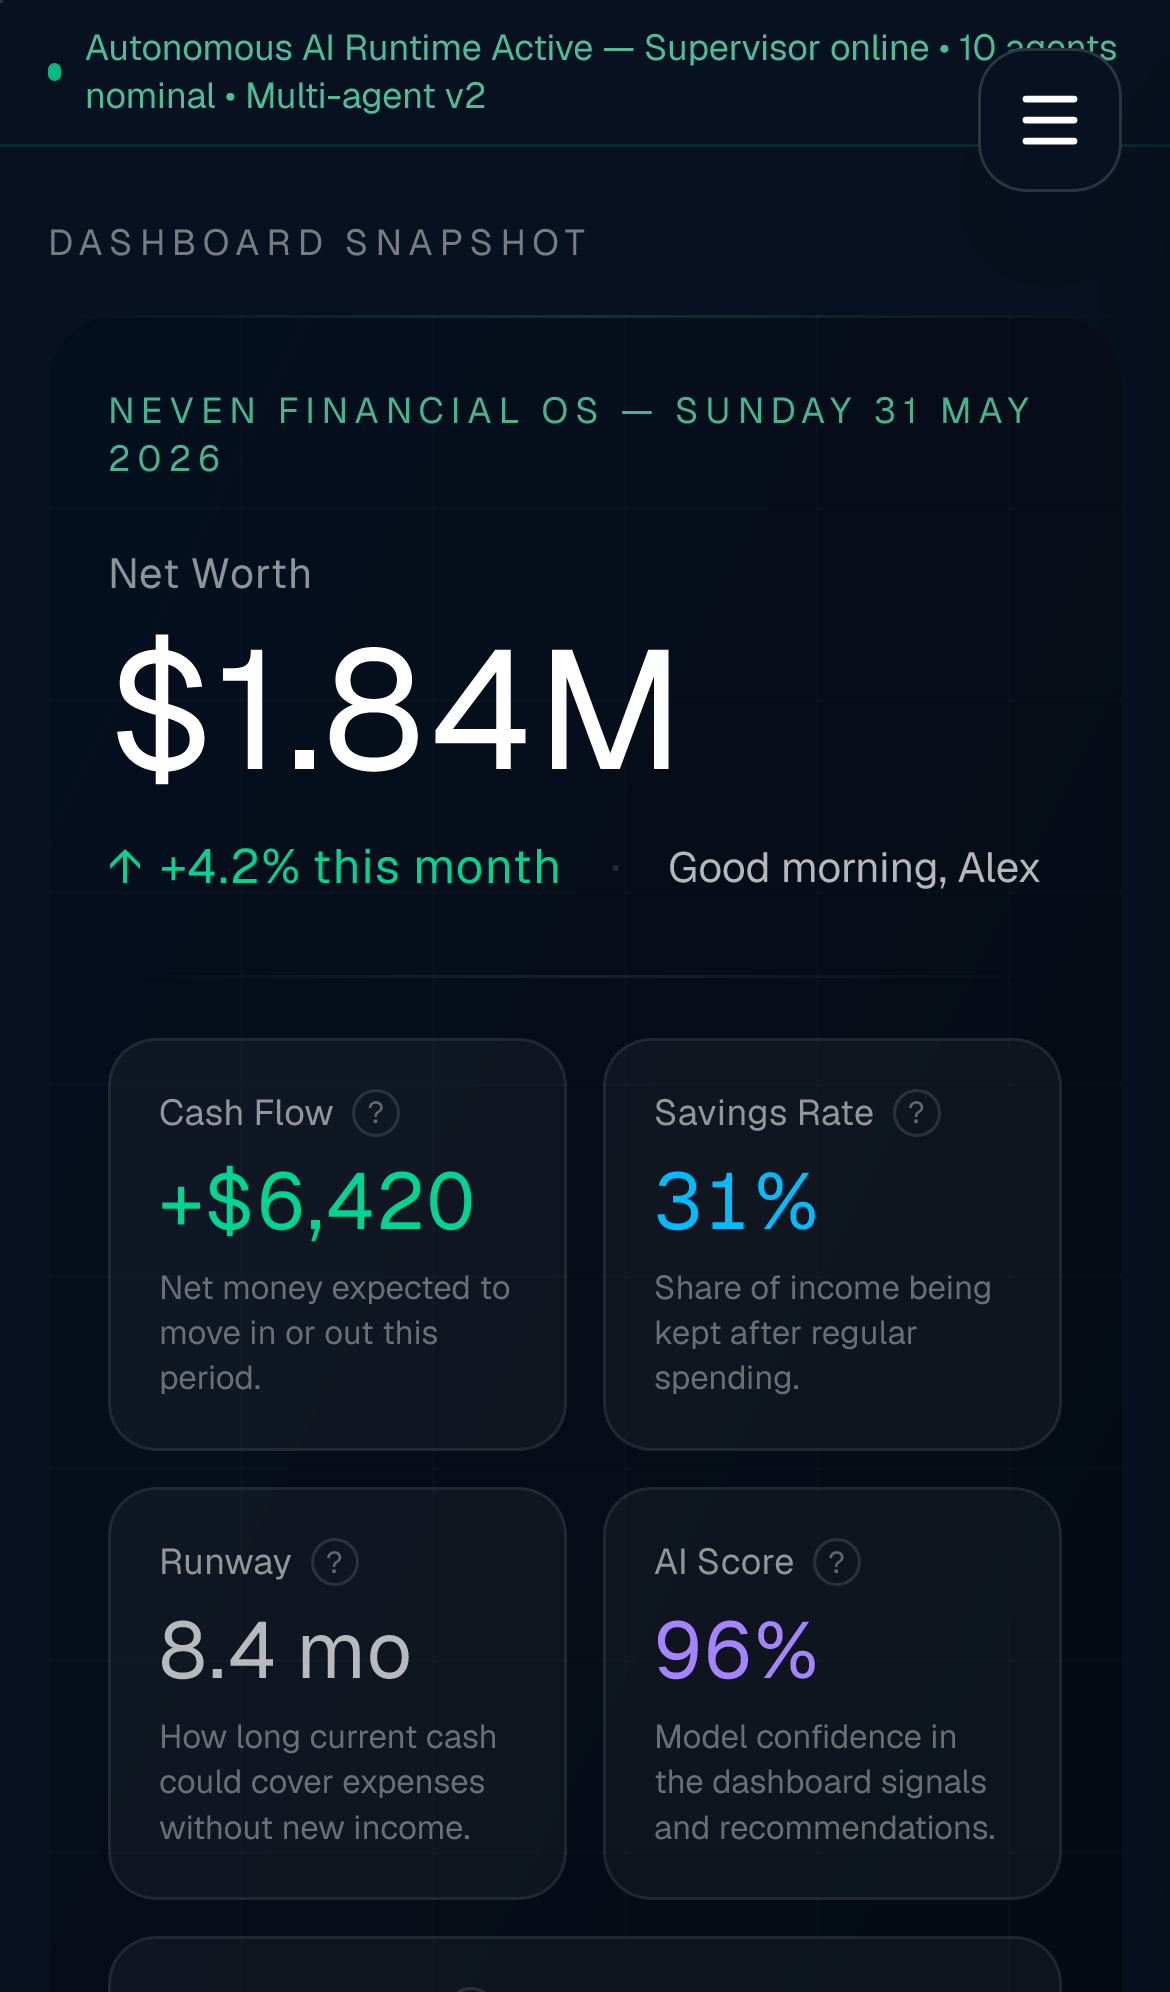
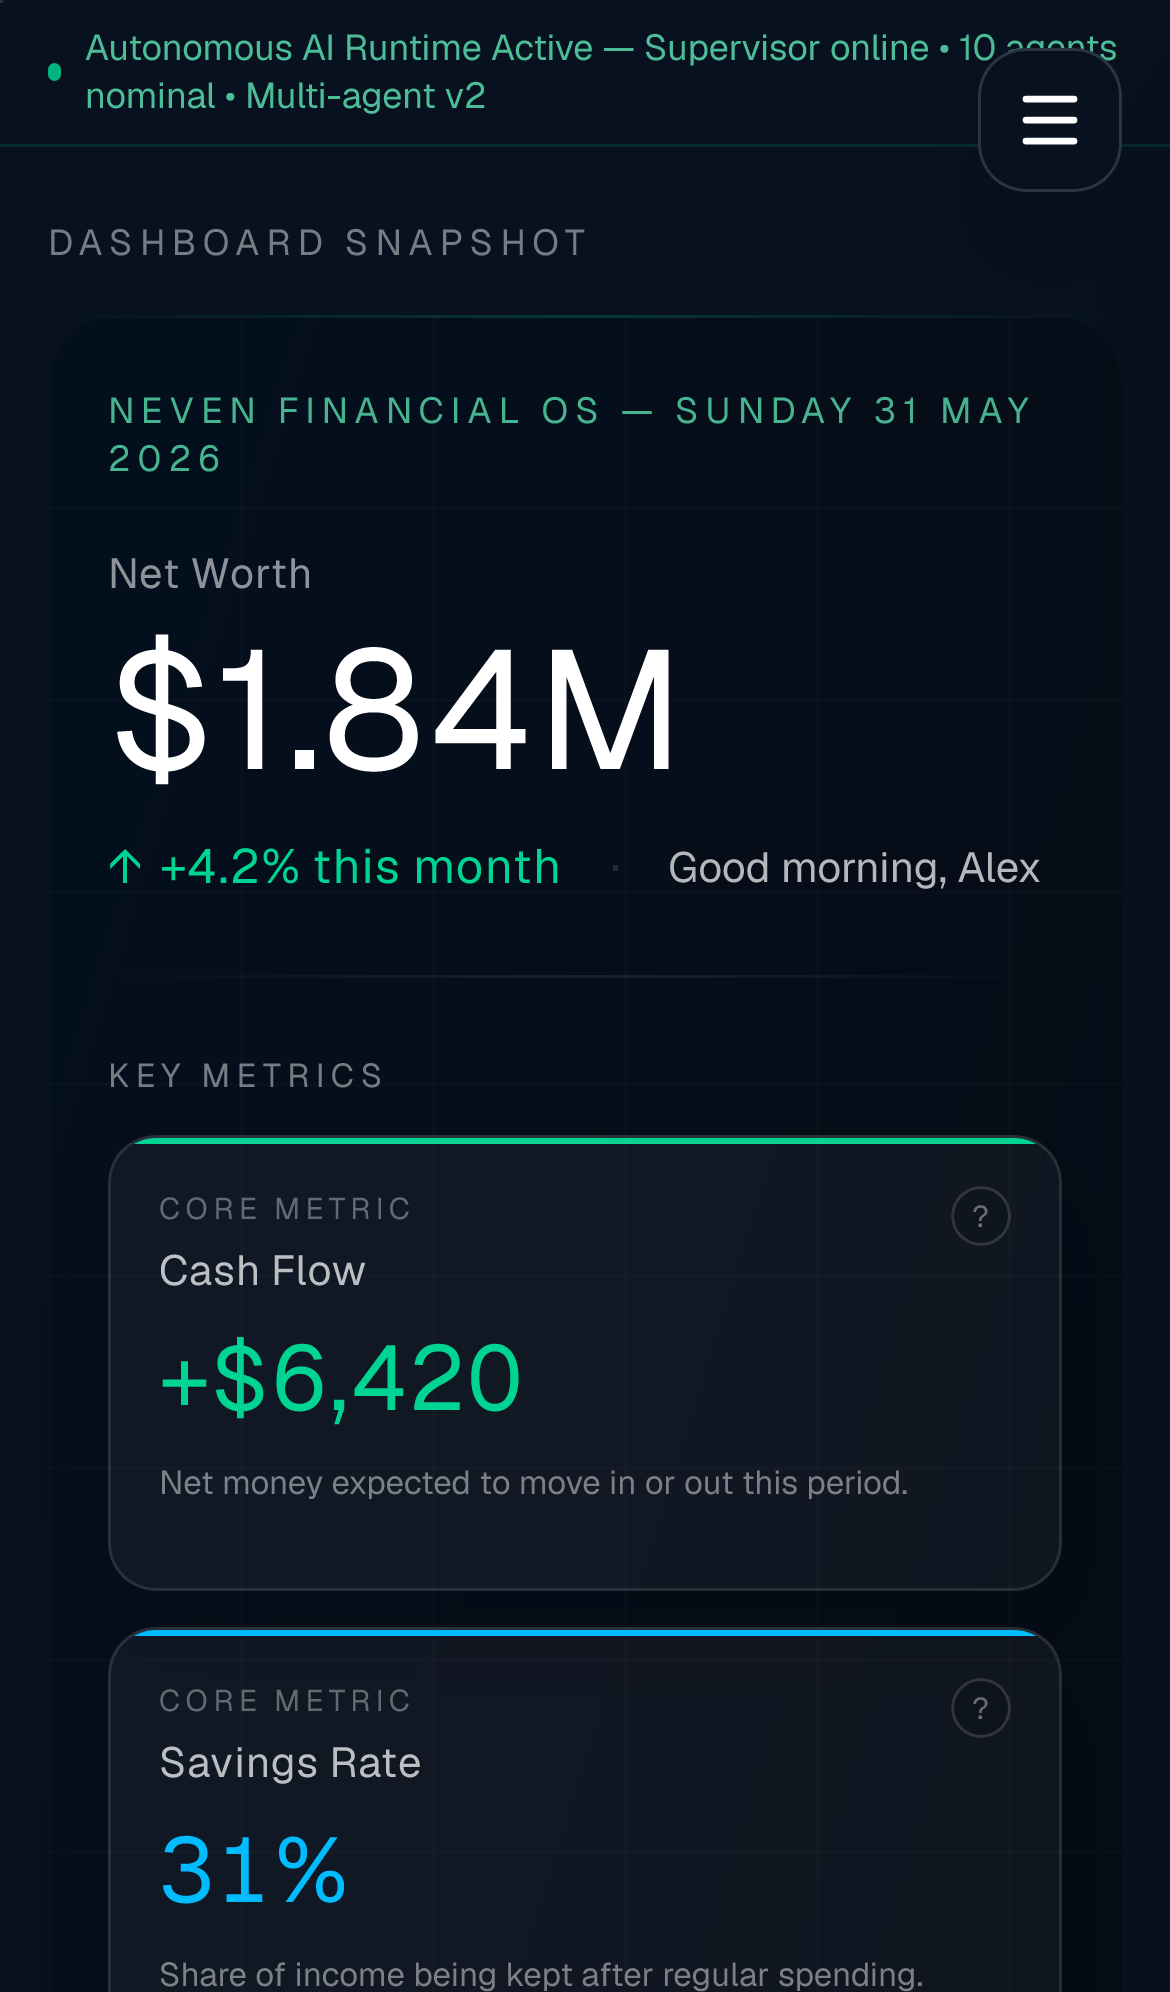
Improve Neven: Run Neven supervisor health task and report readiness withou

diff --git a/src/app/components/OverviewV3.tsx b/src/app/components/OverviewV3.tsx
@@ -62,6 +62,7 @@ export default function OverviewV3({
     label: string;
     value: string;
     accent: string;
+    priority: "core" | "signal" | "status";
     detail?: string;
     explanation: string;
     progress?: number;
@@ -70,30 +71,35 @@ export default function OverviewV3({
       label: "Cash Flow",
       value: cashFlow,
       accent: "emerald",
+      priority: "core",
       explanation: "Net money expected to move in or out this period.",
     },
     {
       label: "Savings Rate",
       value: savingsRate,
       accent: "sky",
+      priority: "core",
       explanation: "Share of income being kept after regular spending.",
     },
     {
       label: "Runway",
       value: runway,
       accent: "white",
+      priority: "signal",
       explanation: "How long current cash could cover expenses without new income.",
     },
     {
       label: "AI Score",
       value: aiConfidence,
       accent: "violet",
+      priority: "signal",
       explanation: "Model confidence in the dashboard signals and recommendations.",
     },
     {
       label: "Financial Health",
       value: String(healthScore),
       accent: "health",
+      priority: "status",
       detail: `${healthLabel} overall`,
       explanation: "Composite 0-100 score from cash flow, savings, debt, and portfolio signals.",
       progress: healthScore,
@@ -106,6 +112,27 @@ export default function OverviewV3({
     white: "text-white/70",
     violet: "text-violet-400",
     health: healthColor,
+  };
+
+  const accentBarClass: Record<string, string> = {
+    emerald: "bg-emerald-400",
+    sky: "bg-sky-400",
+    white: "bg-white/45",
+    violet: "bg-violet-400",
+    health:
+      healthScore >= 90
+        ? "bg-emerald-400"
+        : healthScore >= 75
+        ? "bg-sky-400"
+        : healthScore >= 60
+        ? "bg-amber-400"
+        : "bg-red-400",
+  };
+
+  const priorityLabel: Record<"core" | "signal" | "status", string> = {
+    core: "Core metric",
+    signal: "Planning signal",
+    status: "Composite status",
   };
 
   const levelColor: Record<string, string> = {
@@ -218,20 +245,39 @@ export default function OverviewV3({
             <div className="mt-6 h-px bg-gradient-to-r from-transparent via-white/[0.08] to-transparent" />
 
             {/* KPI row */}
-            <div className="mt-5">
-              <div className="grid grid-cols-2 items-stretch gap-3 md:grid-cols-5">
+            <div className="mt-6">
+              <div className="mb-3 flex items-center justify-between gap-4">
+                <div className="text-[11px] font-semibold uppercase tracking-[0.18em] text-white/45">
+                  Key metrics
+                </div>
+                <div className="hidden text-[11px] font-medium text-white/30 sm:block">
+                  Cash flow, resilience, and health at a glance
+                </div>
+              </div>
+
+              <div className="grid grid-cols-1 items-stretch gap-3 sm:grid-cols-2 lg:grid-cols-5">
                 {secondaryMetrics.map((m) => (
                   <div
                     key={m.label}
-                    className={`flex h-full flex-col rounded-2xl border border-white/[0.08] bg-white/[0.035] p-4 ${
-                      m.accent === "health" ? "col-span-2 md:col-span-1" : ""
+                    className={`relative flex h-full min-h-[152px] flex-col overflow-hidden rounded-2xl border p-4 shadow-[0_16px_36px_rgba(0,0,0,0.16)] ${
+                      m.priority === "status"
+                        ? "border-emerald-400/25 bg-emerald-400/[0.07] sm:col-span-2 lg:col-span-1"
+                        : "border-white/[0.1] bg-white/[0.045]"
                     }`}
                   >
-                    <div className="mb-2 flex items-center gap-1.5 text-xs font-medium text-white/55">
-                      <span>{m.label}</span>
+                    <div className={`absolute inset-x-0 top-0 h-0.5 ${accentBarClass[m.accent]}`} />
+                    <div className="mb-3 flex items-start justify-between gap-3">
+                      <div className="min-w-0">
+                        <div className="text-[10px] font-semibold uppercase tracking-[0.16em] text-white/35">
+                          {priorityLabel[m.priority]}
+                        </div>
+                        <div className="mt-1 text-sm font-semibold leading-tight text-white/72">
+                          {m.label}
+                        </div>
+                      </div>
                       <span
                         aria-label={`${m.label}: ${m.explanation}`}
-                        className="group relative inline-flex h-4 w-4 cursor-help items-center justify-center rounded-full border border-white/[0.12] text-[10px] font-bold text-white/35 outline-none transition hover:border-white/25 hover:text-white/70 focus-visible:border-emerald-300/60 focus-visible:text-white"
+                        className="group relative inline-flex h-5 w-5 shrink-0 cursor-help items-center justify-center rounded-full border border-white/[0.14] bg-black/10 text-[10px] font-bold text-white/38 outline-none transition hover:border-white/25 hover:text-white/70 focus-visible:border-emerald-300/60 focus-visible:text-white"
                         role="img"
                         tabIndex={0}
                         title={m.explanation}
@@ -243,23 +289,23 @@ export default function OverviewV3({
                       </span>
                     </div>
                     <div
-                      className={`font-bold tabular-nums leading-none ${accentClass[m.accent]}`}
-                      style={{ fontSize: "clamp(1.65rem, 3.5vw, 2.35rem)" }}
+                      className={`font-bold tabular-nums leading-none tracking-normal ${accentClass[m.accent]}`}
+                      style={{ fontSize: "clamp(1.9rem, 4vw, 2.45rem)" }}
                     >
                       {m.value}
                     </div>
                     {m.detail && (
-                      <div className={`mt-1.5 text-xs font-semibold ${accentClass[m.accent]} opacity-60`}>
+                      <div className={`mt-2 text-xs font-semibold ${accentClass[m.accent]} opacity-75`}>
                         {m.detail}
                       </div>
                     )}
-                    <p className="mt-2 min-h-8 flex-1 text-[11px] leading-snug text-white/38">
+                    <p className="mt-3 flex-1 text-[11px] leading-snug text-white/45">
                       {m.explanation}
                     </p>
                     {m.progress !== undefined && (
-                      <div className="mt-2 h-[2px] w-20 rounded-full bg-white/[0.06]">
+                      <div className="mt-3 h-1.5 w-full rounded-full bg-white/[0.08]">
                         <div
-                          className="h-full rounded-full bg-emerald-400"
+                          className={`h-full rounded-full ${accentBarClass[m.accent]}`}
                           style={{ width: `${m.progress}%` }}
                         />
                       </div>
